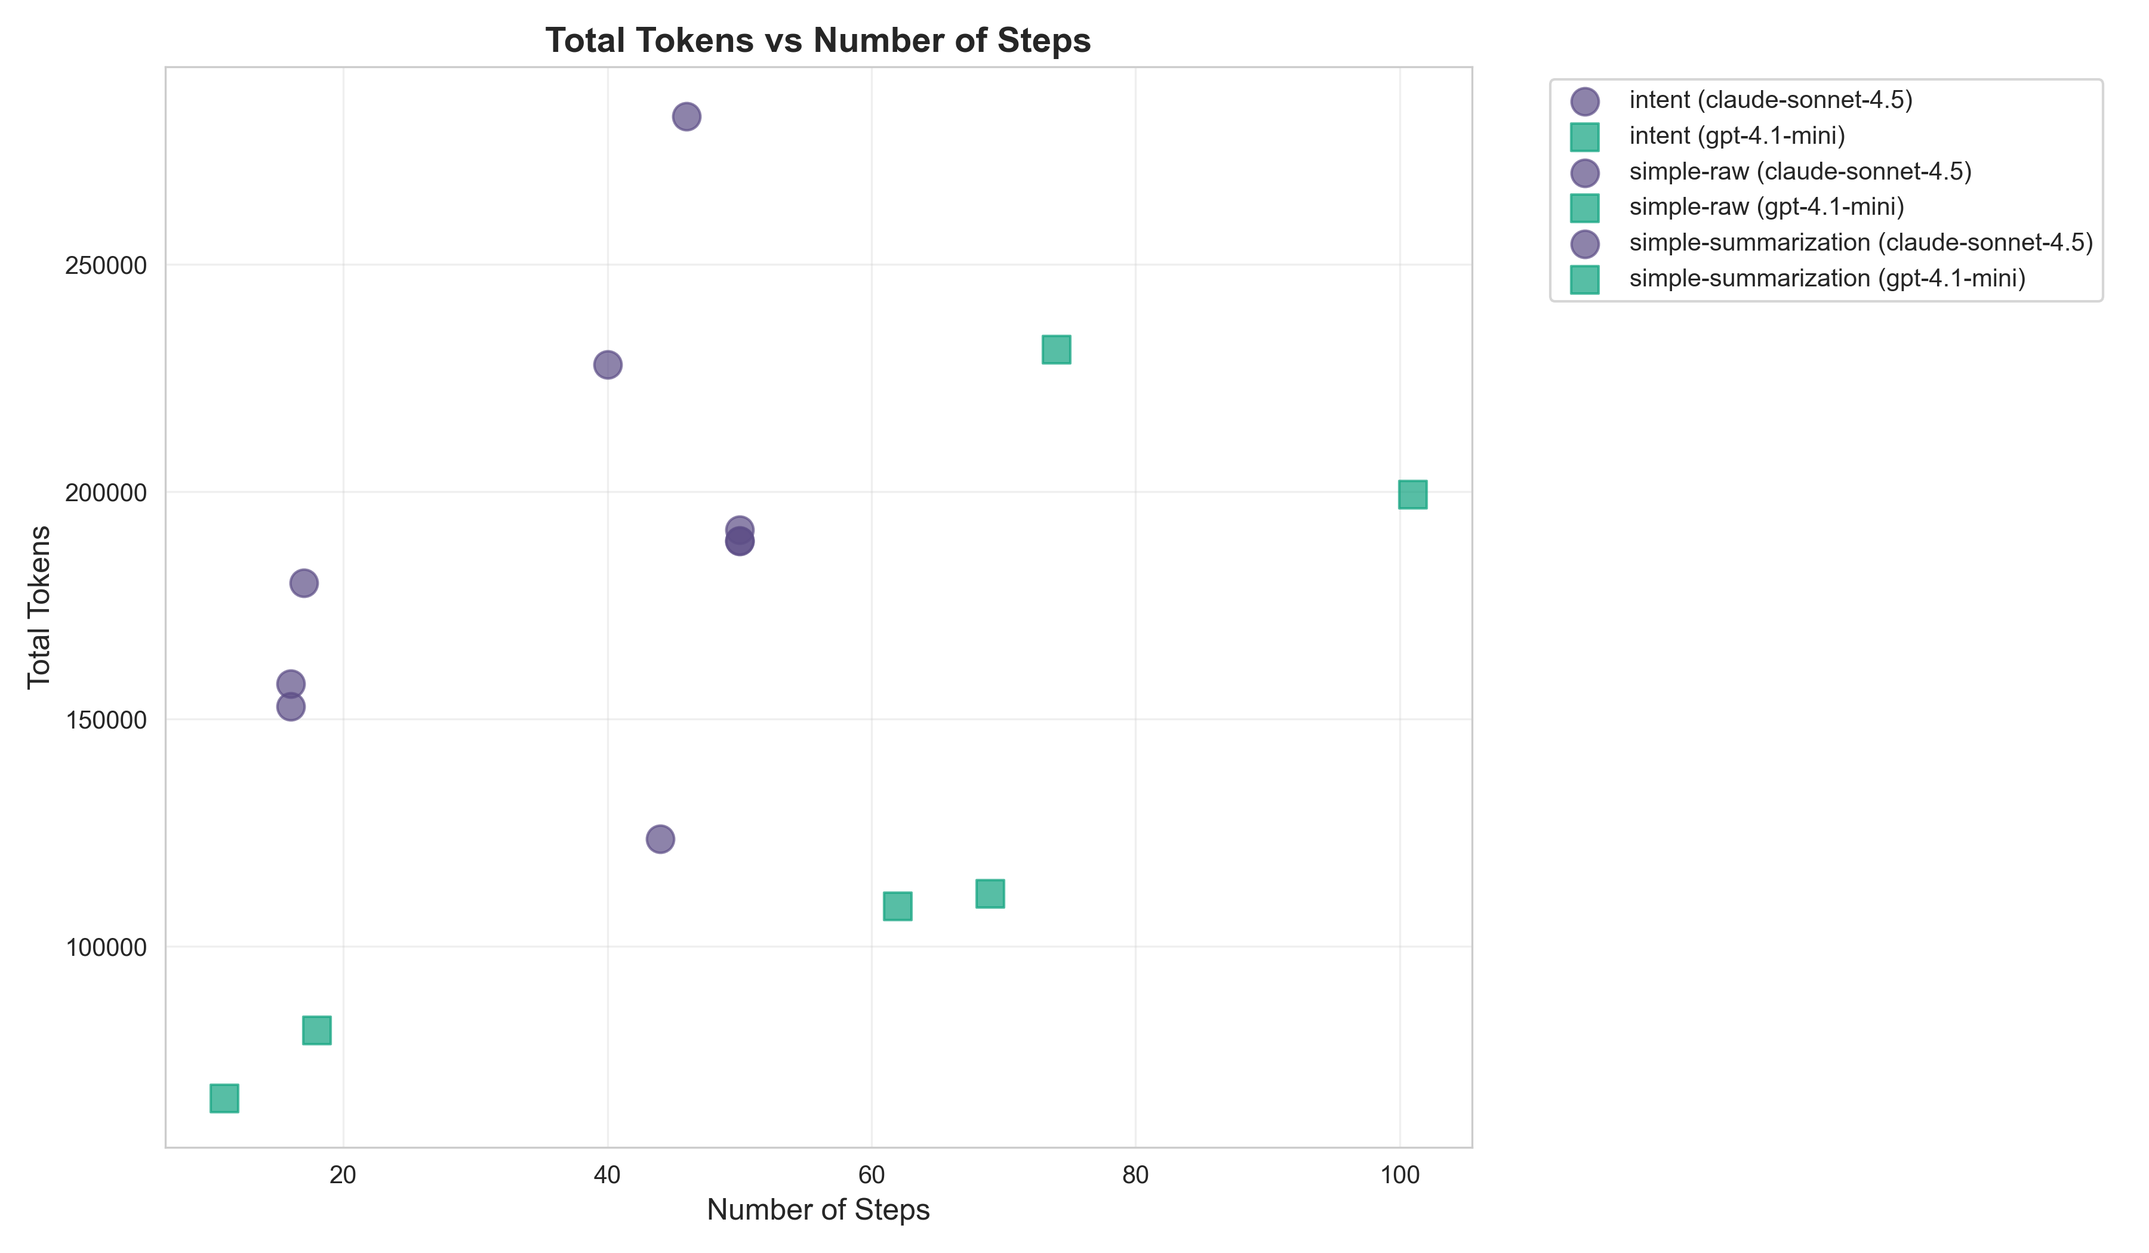
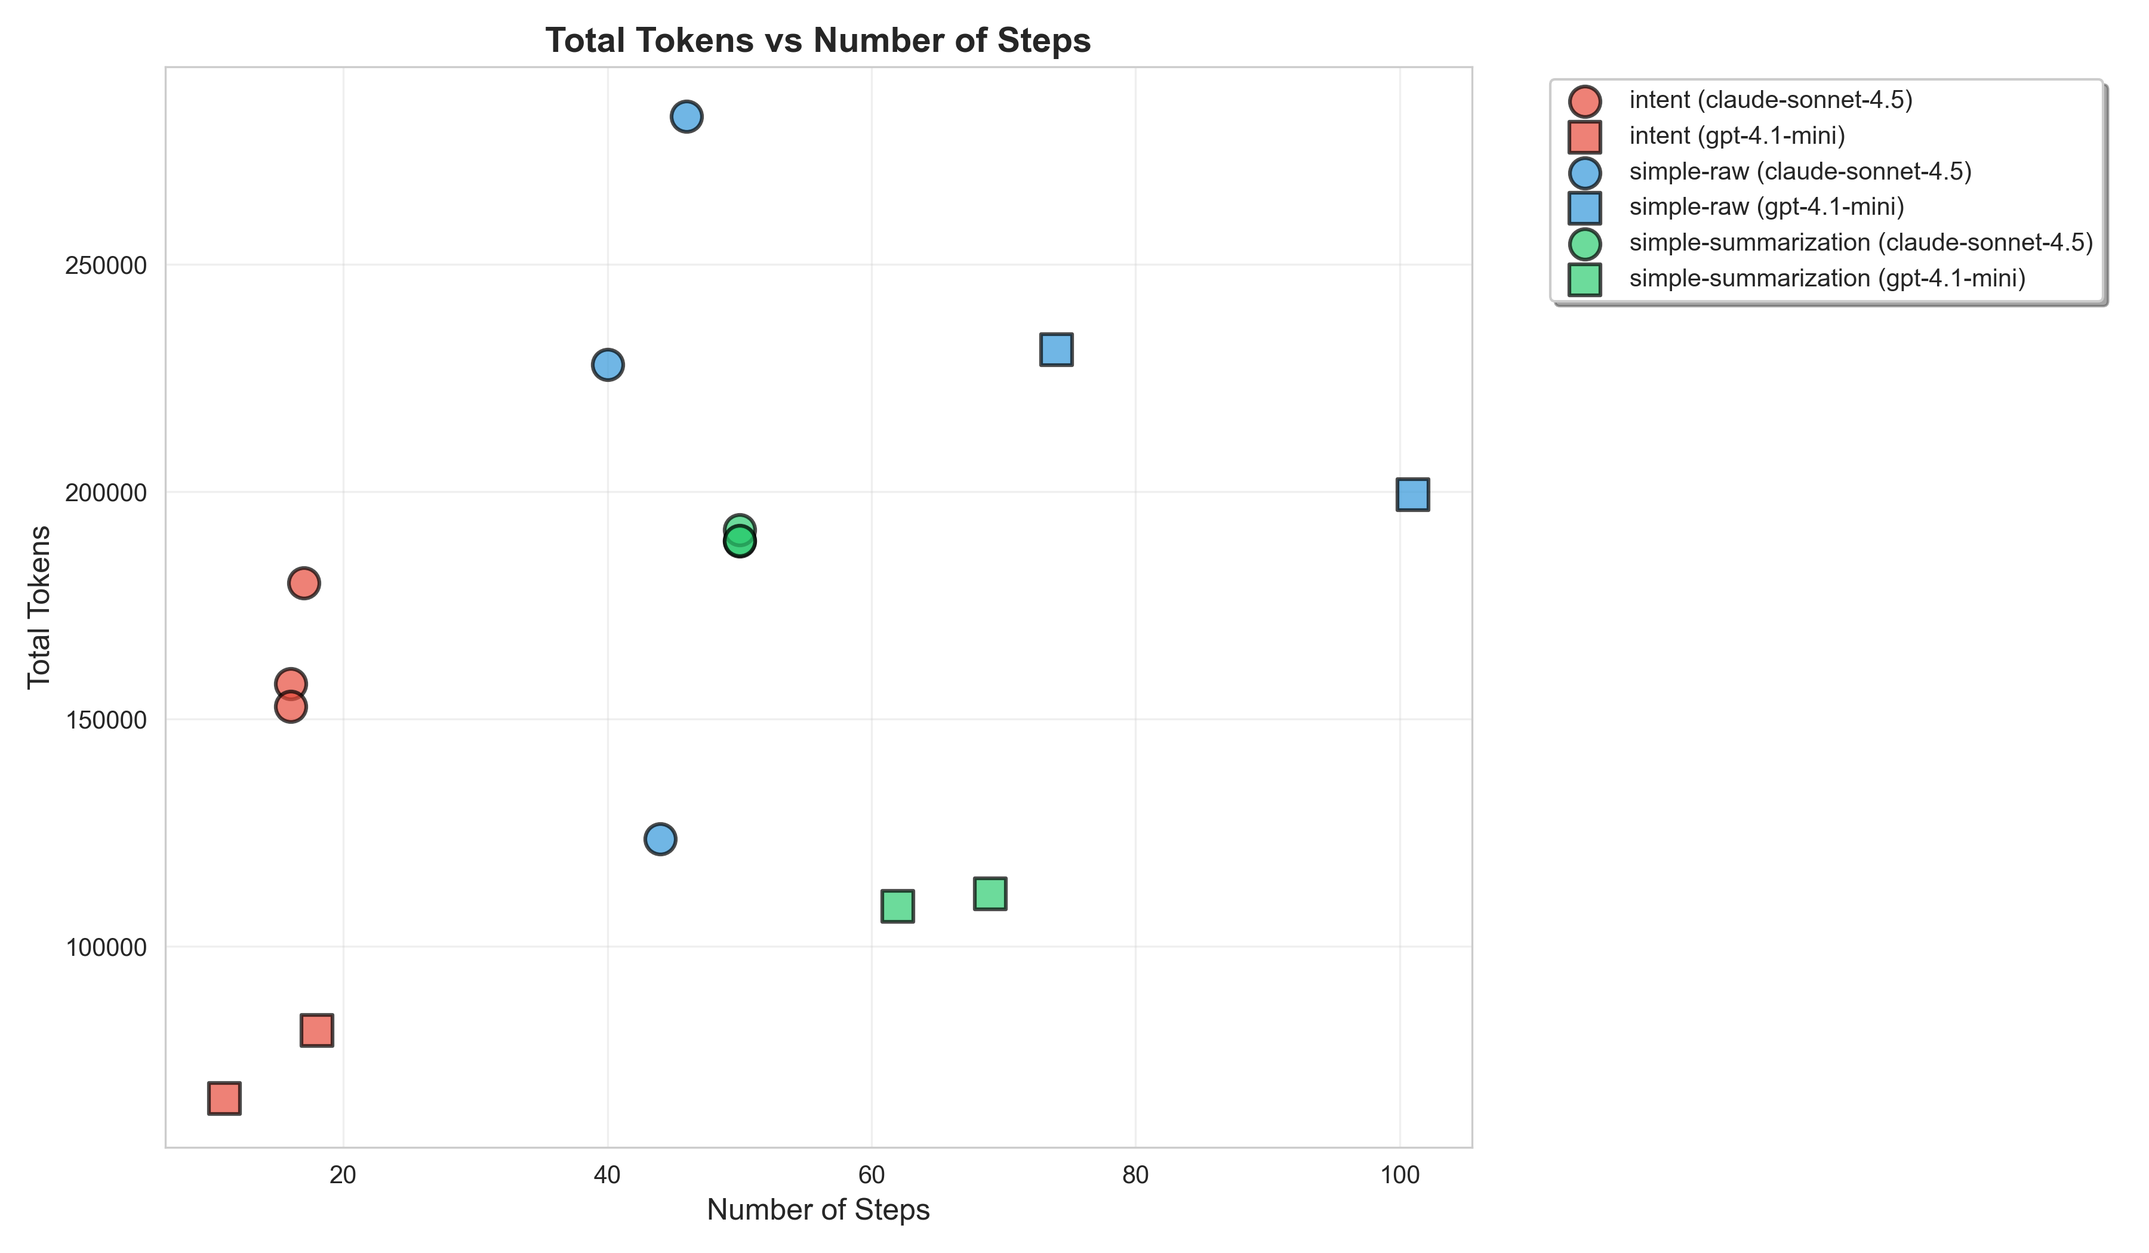
more changes

diff --git a/analyze_agents.py b/analyze_agents.py
@@ -431,23 +431,30 @@ def generate_visualizations(runs: List[AgentRun], output_dir: str = "analysis_ou
     # 6. Tokens per Step Scatter Plot
     fig, ax = plt.subplots(figsize=(12, 7))
 
-    # Different markers for models
+    # Different markers for models, different colors for agent types
     markers = {'anthropic-claude-sonnet-4.5': 'o', 'openai-gpt-4.1-mini': 's'}
+    agent_colors = {
+        'intent': '#E74C3C',
+        'simple-raw': '#3498DB',
+        'simple-summarization': '#2ECC71'
+    }
 
     for agent_type in agent_types:
         for model in models:
             agent_model_data = df[(df['agent_type'] == agent_type) & (df['model_name'] == model)]
             if not agent_model_data.empty:
+                model_short = model.replace("anthropic-", "").replace("openai-", "")
                 plt.scatter(agent_model_data['total_messages'], agent_model_data['total_tokens'],
-                           label=f'{agent_type} ({model.replace("anthropic-", "").replace("openai-", "")})',
-                           alpha=0.7, s=120,
+                           label=f'{agent_type} ({model_short})',
+                           alpha=0.7, s=150,
                            marker=markers.get(model, 'o'),
-                           color=model_colors.get(model, 'steelblue'))
+                           color=agent_colors.get(agent_type, 'steelblue'),
+                           edgecolors='black', linewidths=1.5)
 
     plt.title('Total Tokens vs Number of Steps', fontsize=14, fontweight='bold')
     plt.xlabel('Number of Steps', fontsize=12)
     plt.ylabel('Total Tokens', fontsize=12)
-    plt.legend(bbox_to_anchor=(1.05, 1), loc='upper left')
+    plt.legend(bbox_to_anchor=(1.05, 1), loc='upper left', frameon=True, shadow=True)
     plt.grid(True, alpha=0.3)
 
     plt.tight_layout()
@@ -831,7 +838,9 @@ def generate_summary_report(runs: List[AgentRun], output_dir: str = "analysis_ou
         )
 
         report.append("#### Field Accuracy Rates\n\n")
-        report.append("| Field | " + " | ".join(pivot_correct.columns) + " |\n")
+        # Create cleaner column headers without newlines
+        clean_columns = [col.replace('\n', ' ') for col in pivot_correct.columns]
+        report.append("| Field | " + " | ".join(clean_columns) + " |\n")
         report.append("|" + "---|" * (len(pivot_correct.columns) + 1) + "\n")
         for field in pivot_correct.index:
             report.append(f"| `{field}` |")
@@ -857,7 +866,9 @@ def generate_summary_report(runs: List[AgentRun], output_dir: str = "analysis_ou
                 aggfunc='mean'
             )
 
-            report.append("| Field | " + " | ".join(pivot_error.columns) + " |\n")
+            # Create cleaner column headers without newlines
+            clean_error_columns = [col.replace('\n', ' ') for col in pivot_error.columns]
+            report.append("| Field | " + " | ".join(clean_error_columns) + " |\n")
             report.append("|" + "---|" * (len(pivot_error.columns) + 1) + "\n")
             for field in pivot_error.index:
                 report.append(f"| `{field}` |")
@@ -921,38 +932,42 @@ def generate_summary_report(runs: List[AgentRun], output_dir: str = "analysis_ou
     # Rankings
     report.append("### Rankings\n\n")
 
-    # Success rate
-    success_rates = df.groupby('agent_type')['is_success'].mean().sort_values(ascending=False)
+    # Success rate (grouped by agent_type and model)
+    success_rates = df.groupby(['agent_type', 'model_name'])['is_success'].mean().sort_values(ascending=False)
     report.append("#### Success Rate\n\n")
-    for i, (agent, rate) in enumerate(success_rates.items(), 1):
+    for i, ((agent, model), rate) in enumerate(success_rates.items(), 1):
         medal = "🥇" if i == 1 else "🥈" if i == 2 else "🥉" if i == 3 else f"{i}."
-        report.append(f"{medal} **`{agent}`**: {rate*100:.1f}%\n")
+        model_short = model.replace('anthropic-', '').replace('openai-', '')
+        report.append(f"{medal} **`{agent}`** ({model_short}): {rate*100:.1f}%  \n")
     report.append("\n")
 
     if not successful_runs.empty:
         # Cost efficiency
-        cost_efficiency = successful_runs.groupby('agent_type')['total_cost'].mean().sort_values()
+        cost_efficiency = successful_runs.groupby(['agent_type', 'model_name'])['total_cost'].mean().sort_values()
         report.append("#### Cost Efficiency (Lower is Better)\n\n")
-        for i, (agent, cost) in enumerate(cost_efficiency.items(), 1):
+        for i, ((agent, model), cost) in enumerate(cost_efficiency.items(), 1):
             medal = "🥇" if i == 1 else "🥈" if i == 2 else "🥉" if i == 3 else f"{i}."
-            report.append(f"{medal} **`{agent}`**: ${cost:.2f}\n")
+            model_short = model.replace('anthropic-', '').replace('openai-', '')
+            report.append(f"{medal} **`{agent}`** ({model_short}): ${cost:.2f}  \n")
         report.append("\n")
 
         # Speed
-        speed_ranking = successful_runs.groupby('agent_type')['total_time_seconds'].mean().sort_values()
+        speed_ranking = successful_runs.groupby(['agent_type', 'model_name'])['total_time_seconds'].mean().sort_values()
         report.append("#### Speed (Lower is Better)\n\n")
-        for i, (agent, time) in enumerate(speed_ranking.items(), 1):
+        for i, ((agent, model), time) in enumerate(speed_ranking.items(), 1):
             medal = "🥇" if i == 1 else "🥈" if i == 2 else "🥉" if i == 3 else f"{i}."
-            report.append(f"{medal} **`{agent}`**: {time:.1f}s\n")
+            model_short = model.replace('anthropic-', '').replace('openai-', '')
+            report.append(f"{medal} **`{agent}`** ({model_short}): {time:.1f}s  \n")
         report.append("\n")
 
         # Accuracy
         if successful_runs['accuracy_score'].sum() > 0:
-            accuracy_ranking = successful_runs.groupby('agent_type')['accuracy_score'].mean().sort_values(ascending=False)
+            accuracy_ranking = successful_runs.groupby(['agent_type', 'model_name'])['accuracy_score'].mean().sort_values(ascending=False)
             report.append("#### Accuracy (Higher is Better)\n\n")
-            for i, (agent, acc) in enumerate(accuracy_ranking.items(), 1):
+            for i, ((agent, model), acc) in enumerate(accuracy_ranking.items(), 1):
                 medal = "🥇" if i == 1 else "🥈" if i == 2 else "🥉" if i == 3 else f"{i}."
-                report.append(f"{medal} **`{agent}`**: {acc:.2%}\n")
+                model_short = model.replace('anthropic-', '').replace('openai-', '')
+                report.append(f"{medal} **`{agent}`** ({model_short}): {acc:.2%}  \n")
             report.append("\n")
 
     report.append("---\n\n")
@@ -965,25 +980,33 @@ def generate_summary_report(runs: List[AgentRun], output_dir: str = "analysis_ou
         report.append("### Best Agent for Different Use Cases\n\n")
 
         # Most cost-efficient
-        best_cost = successful_runs.groupby('agent_type')['total_cost'].mean().idxmin()
-        best_cost_value = successful_runs.groupby('agent_type')['total_cost'].mean().min()
-        report.append(f"- **💰 Most Cost-Efficient:** `{best_cost}` (${best_cost_value:.2f} per run)\n")
+        best_cost_idx = successful_runs.groupby(['agent_type', 'model_name'])['total_cost'].mean().idxmin()
+        best_cost_value = successful_runs.groupby(['agent_type', 'model_name'])['total_cost'].mean().min()
+        best_cost_agent, best_cost_model = best_cost_idx
+        best_cost_model_short = best_cost_model.replace('anthropic-', '').replace('openai-', '')
+        report.append(f"- **💰 Most Cost-Efficient:** `{best_cost_agent}` ({best_cost_model_short}) - ${best_cost_value:.2f} per run\n")
 
         # Fastest
-        fastest = successful_runs.groupby('agent_type')['total_time_seconds'].mean().idxmin()
-        fastest_value = successful_runs.groupby('agent_type')['total_time_seconds'].mean().min()
-        report.append(f"- **⚡ Fastest:** `{fastest}` ({fastest_value:.1f}s per run)\n")
+        fastest_idx = successful_runs.groupby(['agent_type', 'model_name'])['total_time_seconds'].mean().idxmin()
+        fastest_value = successful_runs.groupby(['agent_type', 'model_name'])['total_time_seconds'].mean().min()
+        fastest_agent, fastest_model = fastest_idx
+        fastest_model_short = fastest_model.replace('anthropic-', '').replace('openai-', '')
+        report.append(f"- **⚡ Fastest:** `{fastest_agent}` ({fastest_model_short}) - {fastest_value:.1f}s per run\n")
 
         # Most accurate
         if successful_runs['accuracy_score'].sum() > 0:
-            most_accurate = successful_runs.groupby('agent_type')['accuracy_score'].mean().idxmax()
-            accuracy_value = successful_runs.groupby('agent_type')['accuracy_score'].mean().max()
-            report.append(f"- **🎯 Most Accurate:** `{most_accurate}` ({accuracy_value:.2%} accuracy)\n")
+            most_accurate_idx = successful_runs.groupby(['agent_type', 'model_name'])['accuracy_score'].mean().idxmax()
+            accuracy_value = successful_runs.groupby(['agent_type', 'model_name'])['accuracy_score'].mean().max()
+            most_accurate_agent, most_accurate_model = most_accurate_idx
+            most_accurate_model_short = most_accurate_model.replace('anthropic-', '').replace('openai-', '')
+            report.append(f"- **🎯 Most Accurate:** `{most_accurate_agent}` ({most_accurate_model_short}) - {accuracy_value:.2%} accuracy\n")
 
         # Most reliable (highest success rate)
-        most_reliable = success_rates.idxmax()
+        most_reliable_idx = success_rates.idxmax()
         reliable_rate = success_rates.max() * 100
-        report.append(f"- **✅ Most Reliable:** `{most_reliable}` ({reliable_rate:.1f}% success rate)\n")
+        most_reliable_agent, most_reliable_model = most_reliable_idx
+        most_reliable_model_short = most_reliable_model.replace('anthropic-', '').replace('openai-', '')
+        report.append(f"- **✅ Most Reliable:** `{most_reliable_agent}` ({most_reliable_model_short}) - {reliable_rate:.1f}% success rate\n")
 
         report.append("\n")
 

diff --git a/main.py b/main.py
@@ -1,4 +1,3 @@
-from src.agents.prompts import USER_PROMPT
 import src.config # noqa: F401
 
 import os
@@ -6,9 +5,11 @@ import glob
 import shutil
 import traceback
 from json import dumps, loads
+from datetime import datetime
 
 import aiofiles
 
+from src.agents.prompts import USER_PROMPT
 from src.agents.simple import simple # noqa: F401
 from src.agents.intent import intent # noqa: F401
 from src.tools import CONTENT_DIR, RUN_ID
@@ -42,6 +43,7 @@ async def copy_outcome_to_final(final_path: str, metrics_path: str):
 async def main():
     # model_name = "anthropic/claude-sonnet-4.5"
     # model_name = "openai/gpt-4.1-mini"
+    # model_name = "openai/gpt-4o"
     # model_name = "google/gemini-2.5-flash-preview-09-2025"
     model_name = "google/gemini-2.5-pro"
 
@@ -112,4 +114,7 @@ async def main():
 
 if __name__ == "__main__":
     import asyncio
-    asyncio.run(main())
+
+    for i in range(3):
+        RUN_ID = datetime.now().strftime("%Y%m%dT%H%M%S")
+        asyncio.run(main())

diff --git a/src/agents/simple.py b/src/agents/simple.py
@@ -36,7 +36,7 @@ async def simple(
         middleware=[
             SummarizationMiddleware(
                 model=new_llm("openai/gpt-4o-mini"),
-                max_tokens_before_summary=4000,
+                max_tokens_before_summary=12000,
                 messages_to_keep=20,
                 summary_prompt=CUSTOM_SUMMARY_PROMPT,
                 summary_prefix=CUSTOM_SUMMARY_PREFIX,

diff --git a/src/tools.py b/src/tools.py
@@ -1,3 +1,4 @@
+from datetime import datetime
 import src.config  # noqa: F401
 
 import os
@@ -29,7 +30,7 @@ CONTENT_DIR = os.path.join(
 )
 
 
-RUN_ID = str(uuid.uuid4())
+RUN_ID = datetime.now().strftime("%Y%m%dT%H%M%S")
 
 print(f"Tools module initialized with RUN_ID: {RUN_ID}")
 

diff --git a/analysis_output/summary_report.md b/analysis_output/summary_report.md
@@ -130,13 +130,7 @@
 
 #### Field Accuracy Rates
 
-| Field | intent
-(claude-sonnet-4.5) | intent
-(gpt-4.1-mini) | simple-raw
-(claude-sonnet-4.5) | simple-raw
-(gpt-4.1-mini) | simple-summarization
-(claude-sonnet-4.5) | simple-summarization
-(gpt-4.1-mini) |
+| Field | intent (claude-sonnet-4.5) | intent (gpt-4.1-mini) | simple-raw (claude-sonnet-4.5) | simple-raw (gpt-4.1-mini) | simple-summarization (claude-sonnet-4.5) | simple-summarization (gpt-4.1-mini) |
 |---|---|---|---|---|---|---|
 | `avg_revenue_per_trip` | 0% | 100% | 33% | 0% | 0% | 0% |
 | `best_revenue_hour` | 67% | 100% | 100% | 0% | 100% | 100% |
@@ -149,13 +143,7 @@
 
 ![Percentage Error](field_percentage_error.png)
 
-| Field | intent
-(claude-sonnet-4.5) | intent
-(gpt-4.1-mini) | simple-raw
-(claude-sonnet-4.5) | simple-raw
-(gpt-4.1-mini) | simple-summarization
-(claude-sonnet-4.5) | simple-summarization
-(gpt-4.1-mini) |
+| Field | intent (claude-sonnet-4.5) | intent (gpt-4.1-mini) | simple-raw (claude-sonnet-4.5) | simple-raw (gpt-4.1-mini) | simple-summarization (claude-sonnet-4.5) | simple-summarization (gpt-4.1-mini) |
 |---|---|---|---|---|---|---|
 | `avg_revenue_per_trip` | 42.4% | 0.0% | 29.2% | 8.0% | 43.7% | 36.1% |
 | `best_revenue_hour` | 2.0% | 0.0% | 0.0% | 5.9% | 0.0% | 0.0% |
@@ -223,27 +211,39 @@
 
 #### Success Rate
 
-🥇 **`intent`**: 100.0%
-🥈 **`simple-raw`**: 80.0%
-🥉 **`simple-summarization`**: 40.0%
+🥇 **`intent`** (claude-sonnet-4.5): 100.0%  
+🥈 **`intent`** (gpt-4.1-mini): 100.0%  
+🥉 **`simple-raw`** (claude-sonnet-4.5): 100.0%  
+4. **`simple-raw`** (gpt-4.1-mini): 50.0%  
+5. **`simple-summarization`** (gpt-4.1-mini): 50.0%  
+6. **`simple-summarization`** (claude-sonnet-4.5): 33.3%  
 
 #### Cost Efficiency (Lower is Better)
 
-🥇 **`intent`**: $0.23
-🥈 **`simple-summarization`**: $0.35
-🥉 **`simple-raw`**: $0.54
+🥇 **`intent`** (gpt-4.1-mini): $0.05  
+🥈 **`simple-summarization`** (gpt-4.1-mini): $0.05  
+🥉 **`simple-raw`** (gpt-4.1-mini): $0.10  
+4. **`intent`** (claude-sonnet-4.5): $0.35  
+5. **`simple-summarization`** (claude-sonnet-4.5): $0.66  
+6. **`simple-raw`** (claude-sonnet-4.5): $0.69  
 
 #### Speed (Lower is Better)
 
-🥇 **`simple-raw`**: 109.6s
-🥈 **`intent`**: 171.6s
-🥉 **`simple-summarization`**: 200.5s
+🥇 **`simple-raw`** (claude-sonnet-4.5): 109.0s  
+🥈 **`simple-raw`** (gpt-4.1-mini): 111.3s  
+🥉 **`intent`** (gpt-4.1-mini): 128.6s  
+4. **`simple-summarization`** (gpt-4.1-mini): 151.5s  
+5. **`intent`** (claude-sonnet-4.5): 200.2s  
+6. **`simple-summarization`** (claude-sonnet-4.5): 249.5s  
 
 #### Accuracy (Higher is Better)
 
-🥇 **`intent`**: 76.67%
-🥈 **`simple-raw`**: 75.00%
-🥉 **`simple-summarization`**: 58.33%
+🥇 **`intent`** (gpt-4.1-mini): 91.67%  
+🥈 **`simple-raw`** (claude-sonnet-4.5): 88.89%  
+🥉 **`simple-summarization`** (claude-sonnet-4.5): 83.33%  
+4. **`intent`** (claude-sonnet-4.5): 66.67%  
+5. **`simple-raw`** (gpt-4.1-mini): 33.33%  
+6. **`simple-summarization`** (gpt-4.1-mini): 33.33%  
 
 ---
 
@@ -251,10 +251,10 @@
 
 ### Best Agent for Different Use Cases
 
-- **💰 Most Cost-Efficient:** `intent` ($0.23 per run)
-- **⚡ Fastest:** `simple-raw` (109.6s per run)
-- **🎯 Most Accurate:** `intent` (76.67% accuracy)
-- **✅ Most Reliable:** `intent` (100.0% success rate)
+- **💰 Most Cost-Efficient:** `intent` (gpt-4.1-mini) - $0.05 per run
+- **⚡ Fastest:** `simple-raw` (claude-sonnet-4.5) - 109.0s per run
+- **🎯 Most Accurate:** `intent` (gpt-4.1-mini) - 91.67% accuracy
+- **✅ Most Reliable:** `intent` (claude-sonnet-4.5) - 100.0% success rate
 
 ### Overall Assessment
 
@@ -269,4 +269,4 @@ The data suggests different agents excel in different areas. Choose based on you
 
 ---
 
-*Report generated on 2025-11-07 02:06:46*
+*Report generated on 2025-11-07 02:25:06*

diff --git a/README.md b/README.md
@@ -1,16 +1,55 @@
 # Agent Context Engineering
 
-TODO
+Comparative analysis of different LLM agent architectures for data analysis tasks.
 
 ## Setup
 
-`uv` and `git-lfs` are required to handle large files.
+**Requirements:** `uv` and `git-lfs`
 
+```bash
+git clone <repository>
+cd agent-ctx
+git lfs pull
+uv sync
+```
 
-You will need to pull the files using `git lfs pull` after cloning the repository.
+## Usage
 
+### Run Agent Tests
+```bash
+uv run python main.py
+```
 
-## Test data (`/data/*.parquet`)
+Runs three agent types (simple-raw, simple-summarization, intent) against the configured model and saves results to `outputs/`.
 
-The files have been download the 2025-11-06 from the [NYC.gov](https://www.nyc.gov/site/tlc/about/tlc-trip-record-data.page) site
-in parquet format, only yellow taxi data for all teh available months of 2025 (January to September).
+### Generate Analysis
+```bash
+uv run python analyze_agents.py
+```
+
+Creates visualizations, CSVs, and a summary report in `analysis_output/`:
+- **Visualizations**: PNG charts comparing performance metrics
+- **CSVs**: Detailed and aggregated metrics
+- **Report**: `summary_report.md` with comprehensive analysis
+
+## Metrics
+
+- **Success Rate**: Task completion percentage (empty metrics = failure)
+- **Cost**: API costs per run and per step
+- **Speed**: Total execution time and time per step
+- **Step Count**: Number of agent iterations
+- **Token Usage**: Input/output tokens consumed
+- **Accuracy**: Correctness vs. ground truth (5% tolerance for numeric fields)
+- **Proximity Score**: 0-1 score showing how close predictions are to correct values
+
+## Test Data
+
+NYC Yellow Taxi trip data (Jan-Sep 2025) from [NYC.gov](https://www.nyc.gov/site/tlc/about/tlc-trip-record-data.page) in Parquet format.
+
+## License
+
+This is free and unencumbered software released into the public domain.
+
+Anyone is free to copy, modify, publish, use, compile, sell, or distribute this software, either in source code form or as a compiled binary, for any purpose, commercial or non-commercial, and by any means.
+
+For more information, please refer to <https://unlicense.org/>
